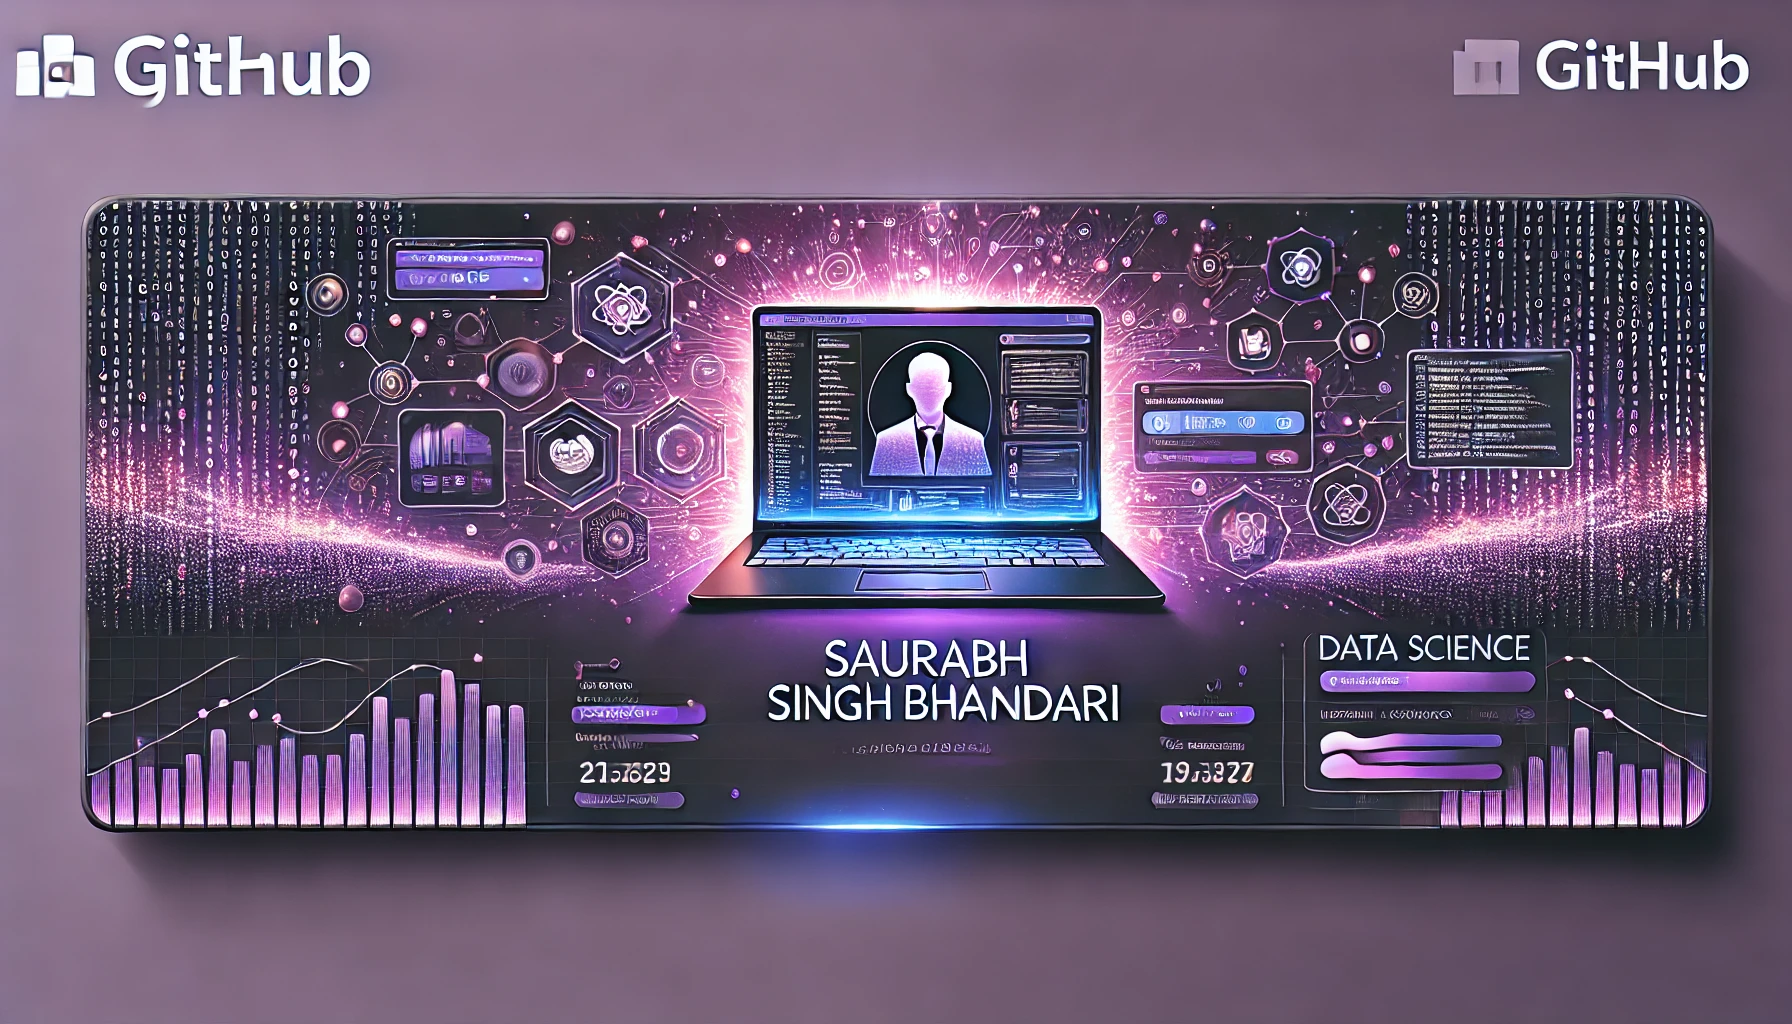
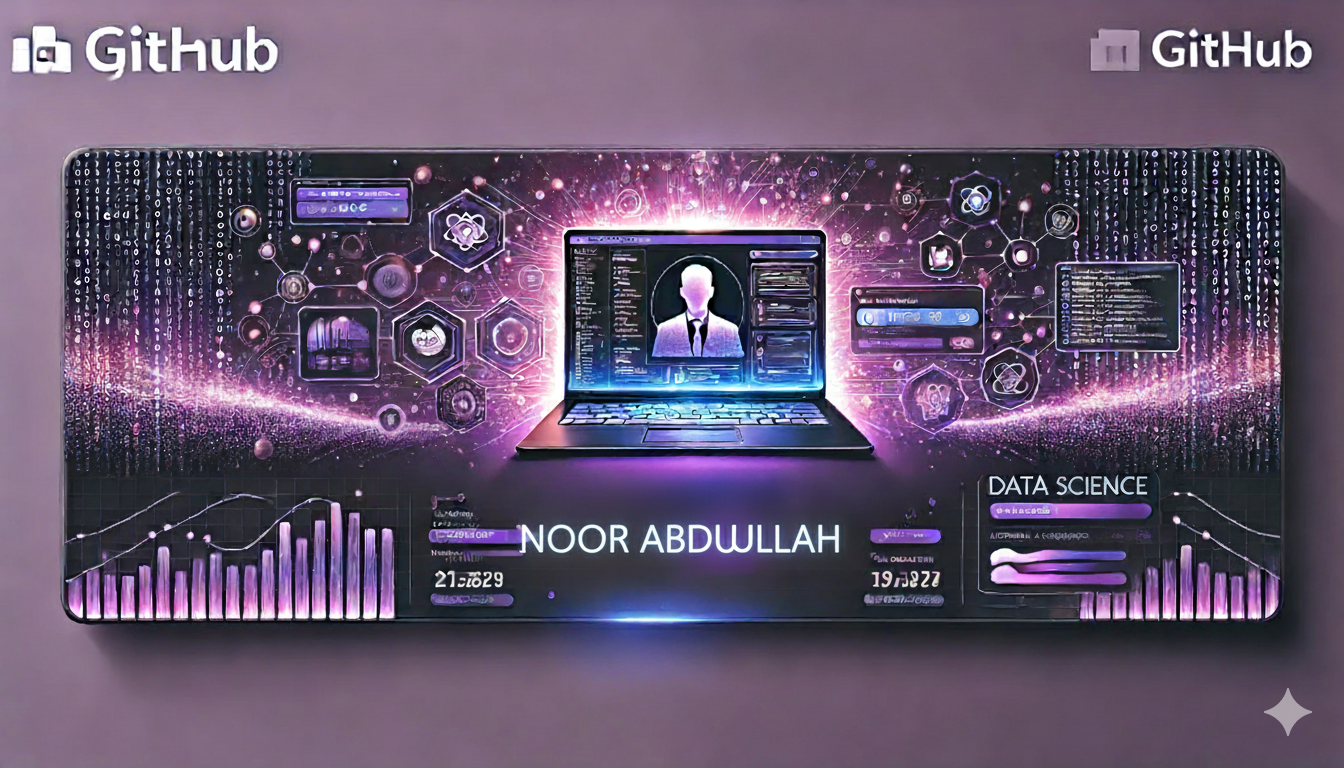
Initial commit

diff --git a/README.md b/README.md
@@ -4,8 +4,8 @@
 <h1 align="center">Hi 👋, I'm Sheikh Noor Abdullah</h1>
 <h3 align="center">A driven and confident data science student with a solid foundation in computer science, characterized by a strong sense of self-assurance, capability, and unwavering commitment to excellence in every endeavor</h3>
 
-<a href="https://linktr.ee/Saurabh_Singh_Bhandari_SSB" target="_blank">
-  <img align="right" alt="Data Scientist" width="400" src="https://raw.githubusercontent.com/SaurabhSSB/SaurabhSSB/main/Final%20(2).webp">
+<a href="https://noor-abdullah.vercel.app/" target="_blank">
+  <img align="right" alt="Data Scientist" width="400" src="https://raw.githubusercontent.com/NoorAbdullah02/NoorAbdullah02/main/Final%20(2).webp">
 </a>
 
 <p align="left">
@@ -49,7 +49,7 @@
 <a href="https://www.facebook.com/sheikh.noor.abdullah" target="blank"><img align="center" src="https://raw.githubusercontent.com/rahuldkjain/github-profile-readme-generator/master/src/images/icons/Social/facebook.svg" alt="Noor Abdullah" height="30" width="40" /></a>
 <a href="https://www.instagram.com/sheikhnoorabdullah/" target="blank"><img align="center" src="https://raw.githubusercontent.com/rahuldkjain/github-profile-readme-generator/master/src/images/icons/Social/instagram.svg" alt="Noor Abdullah" height="30" width="40" /></a>
 <!--<a href="https://medium.com/@saurabhsinghbhandarissb" target="blank"><img align="center" src="https://raw.githubusercontent.com/rahuldkjain/github-profile-readme-generator/master/src/images/icons/Social/medium.svg" alt="@saurabhsinghbhandarissb" height="30" width="40" /></a>-->
-<a href="https://www.youtube.com/c/saurabh singh bhandari" target="blank"><img align="center" src="https://raw.githubusercontent.com/rahuldkjain/github-profile-readme-generator/master/src/images/icons/Social/youtube.svg" alt="saurabh singh bhandari" height="30" width="40" /></a>
+<a href="https://www.youtube.com/@noorabdullah-dq2so" target="blank"><img align="center" src="https://raw.githubusercontent.com/rahuldkjain/github-profile-readme-generator/master/src/images/icons/Social/youtube.svg" alt="Noor Abdullah" height="30" width="40" /></a>
 <!--<a href="https://www.leetcode.com/saurabhsinghbhandarissb" target="blank"><img align="center" src="https://raw.githubusercontent.com/rahuldkjain/github-profile-readme-generator/master/src/images/icons/Social/leet-code.svg" alt="saurabhsinghbhandarissb" height="30" width="40" /></a>-->
 </p>
 
